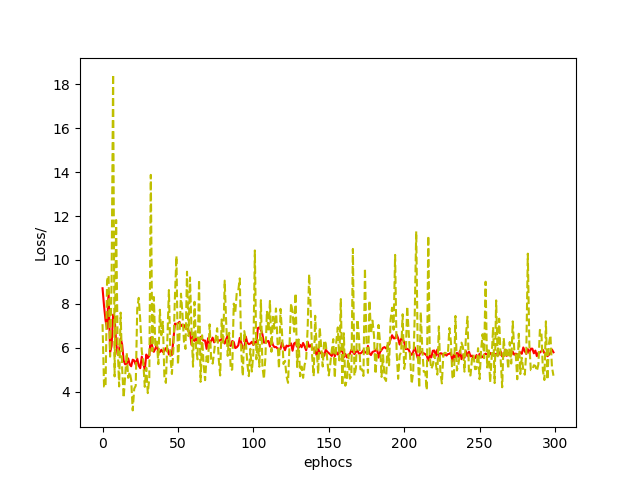
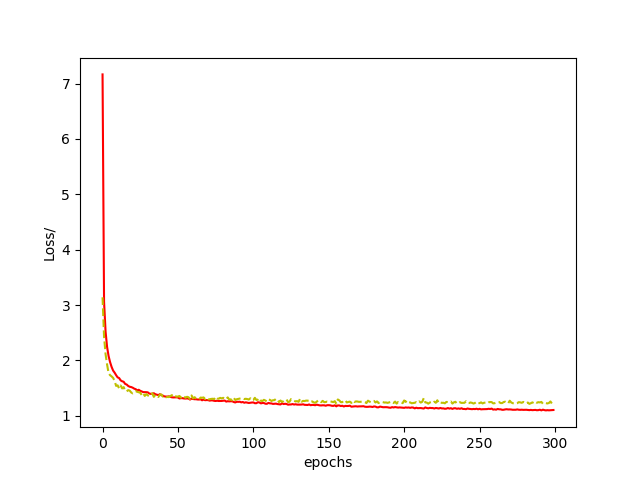
Prepararsi alla cup Grid!!!

diff --git a/new_momentum_version/grid_search_cup.py b/new_momentum_version/grid_search_cup.py
@@ -9,7 +9,7 @@ early = False
 
 l_train = Dataset_Loader('ML-CUP17-TR.csv')
 l_train.load_cup_train()
-l_train.split_train_get_test(0.1)
+l_train.split_train_get_test(0.2)
 
 n_inputs = len(l_train.x[0])
 n_outputs = len(l_train.y[0])
@@ -34,11 +34,11 @@ for n_units in [4,7,10]:
 for topology in range(0,3):
     teta = -1
     for mode in ['batch','minibatch']:
-        for eta in [0.3, 0.5, .9]:
-            for momentum in [.3, .7, .8]:
+        for eta in [0.05, 0.2, 0.6]:
+            for momentum in [.0, .5, .7]:
                 if mode == 'minibatch':
-                    for lamb in [0.0, 0.01]:
-                        for batch_size in [10,20,30,50]:
+                    for lamb in [0.0, 0.02]:
+                        for batch_size in [50, 100]:
                             teta = teta + 1
                             for tries in range(0,5):
                                 #validation_accuracy_for_topology=[]
@@ -46,7 +46,7 @@ for topology in range(0,3):
                                 print str((n.name.split('_'))),eta,momentum,mode,lamb,(batch_size if mode =='minibatch' else '' ),str(teta)
 
                                 loss,acc,val_loss,val_acc=n.fit(l_train.x, l_train.y, eta=eta/10., mode=mode, epochs=1, momentum=momentum/10.,batch_size=batch_size,early=early, lamb=lamb, hold_out=0.2)
-                                mse, mee, acc = n.metrics(l_train.x_test,l_train.y_test)
+                                mse, mee, predicted = n.metrics_reg(l_train.x_test,l_train.y_test)
                                 #i = i + 1
                                 print 'MEE = ', loss[-1],'Validation MEE = ', val_loss[-1], 'Test MEE = ', mee
 
@@ -54,20 +54,26 @@ for topology in range(0,3):
 
                                 n.save_conf_and_score_cup(folder, teta,loss,val_loss,mee)
 
+                                l_train.plot_test_2D(l_train.y_test, predicted, name=folder + n.name + '_' + str(teta) + '_test-' + str(mee).replace('.',','))
+
+
+
                 else:
-                    for lamb in [0.0, 0.01,]:
+                    for lamb in [0.0, 0.02]:
                         teta = teta + 1
                         for tries in range(0,5):
                             n = pkl.load(open(folder + 'Net_'+str(topology)+'_try_'+str(tries),'rb'))
                             print str((n.name.split('_'))),eta,momentum,mode,lamb,(batch_size if mode =='minibatch' else '' ),str(teta)
 
                             loss,acc,val_loss,val_acc=n.fit(l_train.x, l_train.y, eta=eta/10., mode=mode, epochs=1, momentum=momentum/10., lamb=lamb, early=early, hold_out=0.2)
-                            mse, mee, acc = n.metrics(l_train.x_test,l_train.y_test)
+                            mse, mee, predicted = n.metrics_reg(l_train.x_test,l_train.y_test)
                             #i = i + 1
                             print 'MEE = ', loss[-1], 'Validation MEE = ', val_loss[-1], 'Test MEE = ', mee
 
                             print("--- %s seconds ---" % (time.time() - start_time))
                             n.save_conf_and_score_cup(folder, teta, loss, val_loss, mee)
+
+                            l_train.plot_test_2D(l_train.y_test, predicted,name=folder + n.name + '_' + str(teta) + '_test-' + str(mee).replace('.', ','))
 
 print("--- %s seconds ---" % (time.time() - start_time))
 #print i

diff --git a/new_momentum_version/cup_main.py b/new_momentum_version/cup_main.py
@@ -12,18 +12,19 @@ l_train.split_train_get_test(0.1)
 def identity(x): return x
 def derivata_identity(x):  return 1
 for i in [.2]:
-    l1 = Layer(inputs=10,weights=[],sorta=logistic,derivata=derivata_logistic,num_unit=4,fun_in=True)
-    l3 = Output_Layer(inputs=4,weights=[],sorta=identity,derivata=derivata_identity,num_unit=2)
+    l1 = Layer(inputs=10,weights=[],sorta=logistic,derivata=derivata_logistic,num_unit=20,fun_in=True)
+    l3 = Output_Layer(inputs=20,weights=[],sorta=identity,derivata=derivata_identity,num_unit=2)
     net_cup = Net([l1,l3])
 
-    a,b,c,d = net_cup.fit(l_train.x, l_train.y, eta=0.5,momentum=0.6,lamb=0.01, mode='minibatch', epochs=300,batch_size=50,hold_out=i) # anche questo non male
+    #a,b,c,d = net_cup.fit(l_train.x, l_train.y, eta=0.01,momentum=0.9,lamb=0.00, mode='online', epochs=300,batch_size=100,hold_out=i)
+    a,b,c,d = net_cup.fit(l_train.x, l_train.y, eta=0.1,momentum=0.3,lamb=0.00, mode='minibatch', epochs=300,batch_size=100,hold_out=i) # THE BESTT!! 1.1854 MEE 20 Unita
     #a,b,c,d = net_cup.fit(l_train.x, l_train.y, eta=0.6,momentum=0.6, lamb=0.0, mode='batch', epochs=500,hold_out=i) non e' male cosi'
     mse,mee,acc = net_cup.metrics(l_train.x_test,l_train.y_test)
     predicted = []
     for J,p in enumerate(l_train.x_test):
         hx = net_cup.predict(p)
         predicted.append(hx)
-    l_train.plot_test_2D(l_train.y_test,predicted)
+    l_train.plot_test_2D(l_train.y_test, predicted)
     print ('Test MEE = ',mee)
     net_cup.plot_reg(a,c)
 print("--- %s seconds ---" % (time.time() - start_time))

diff --git a/new_momentum_version/nncore.py b/new_momentum_version/nncore.py
@@ -238,6 +238,23 @@ class Net():
 
         return (mse+ self.penalty)/len(x), (mee+self.penalty)/len(x), acc/len(x)
 
+    def metrics_reg(self, x, y):
+        mee = 0
+        mse = 0
+        predicted = []
+        for i, p in enumerate(x):
+            hx = self.predict(p)
+            predicted.append(hx)
+            #print ('pattern', i, hx, y[i])
+            '''print np.array(y[i]) - hx
+            print np.square((np.array(y[i]) - hx))
+            print np.sum(np.square((np.array(y[i]) - hx)))'''
+            mse = mse + np.sum(.5 * np.square((np.array(y[i]) - hx))) #the error
+            mee = mee + np.sqrt(np.sum(np.square((np.array(y[i]) - hx)))) #the error
+            #    print y[i][0],hx[0]
+
+        return (mse+ self.penalty)/len(x), (mee+self.penalty)/len(x), predicted
+
     def MEE(self, x, y): #Mean Eucludian Error
         s = 0
         for i, p in enumerate(x):

diff --git a/new_momentum_version/Loader.py b/new_momentum_version/Loader.py
@@ -69,7 +69,7 @@ class Dataset_Loader():
             chose = rn.randrange(0,len(self.x))
             self.x_test.append(self.x.pop(chose))
             self.y_test.append(self.y.pop(chose))
-    def plot_test_2D(self,z1,z2):
+    def plot_test_2D(self,z1,z2,name=''):
         plt.figure(figsize=(20,10))
         pltname = 'Test 2D'
         x1 =[ el[0] for el in z1 ]
@@ -78,8 +78,11 @@ class Dataset_Loader():
         y2 =[ el[1] for el in z2 ]
         plt.plot(x1,y1,'^',label='Target')
         plt.plot(x2,y2,'s',label='Output')
-        plt.legend(fontsize=15,loc=9)
-        plt.show()
+        plt.legend(fontsize=20,loc=9)
+        if name == '':
+            plt.show()
+        else:
+            plt.savefig(name)
     def rescale(self, range=[0.,1.]):
         a = [[] for el in self.x[0]]
         for i,v in enumerate(self.x[0]):
